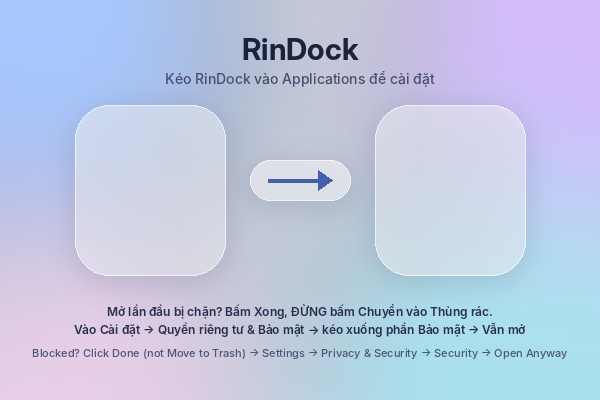
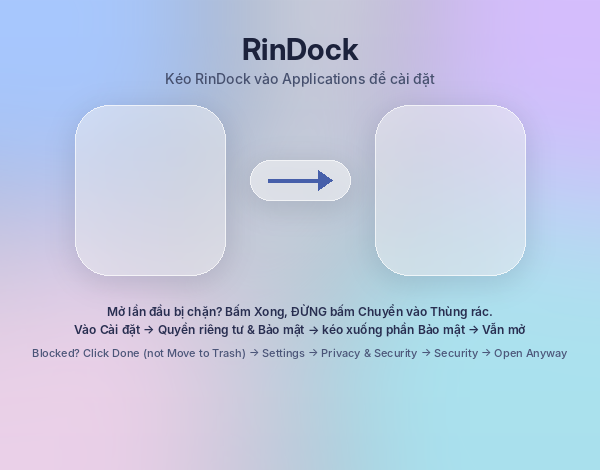
Cửa sổ .dmg cao hơn để Finder bật thanh đường dẫn/trạng thái vẫn không che dòng hướng dẫn mở lần đầu
Claude-Session: https://claude.ai/code/session_01DNY3Y53QQsD8oqxE181Thh

diff --git a/dmg_settings.py b/dmg_settings.py
@@ -25,7 +25,8 @@ show_toolbar = False
 show_pathbar = False
 show_sidebar = False
 
-window_rect = ((200, 120), (600, 400))
+# Cao hơn nền 400 để Finder có bật thanh đường dẫn / thanh trạng thái vẫn không che dòng nhắc phía dưới.
+window_rect = ((200, 100), (600, 500))
 default_view = "icon-view"
 
 icon_size = 112
